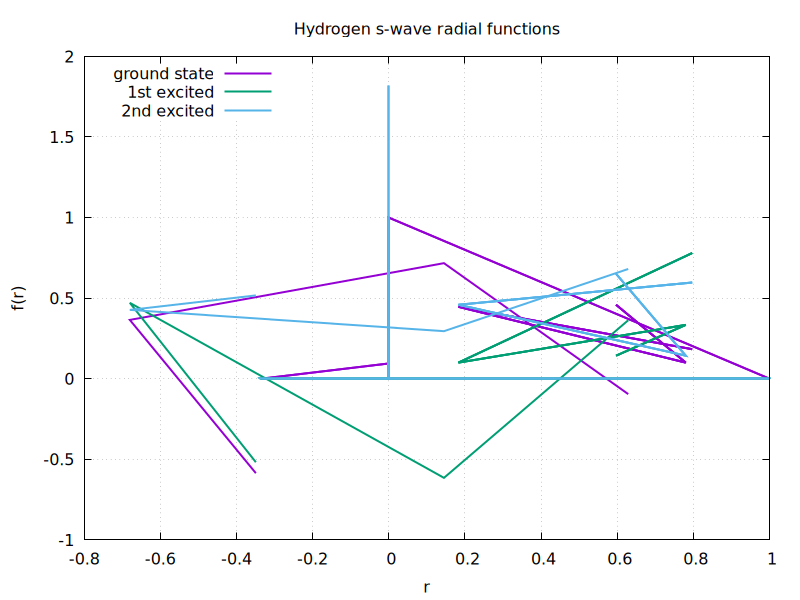
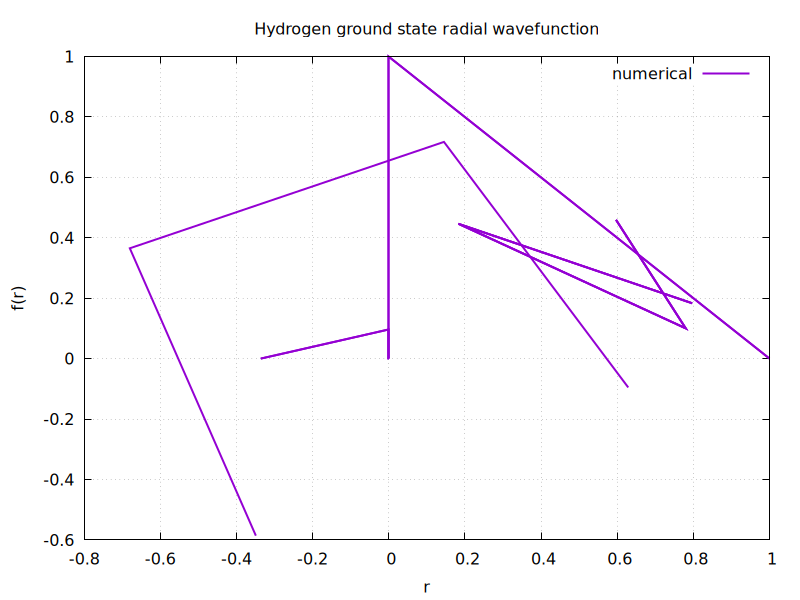
homework

diff --git a/homework/eigenvalues/main.cc b/homework/eigenvalues/main.cc
@@ -40,21 +40,23 @@ int main(int argc, char** argv){
     // diagonalize hydrogen Hamiltonian
     auto [e,Vhyd] = pp::jacobi(H);
 
+    // find index for lowest eigenvalue (ground state)
+    int k0 = 0;
+    for(int k=1;k<e.size();k++)
+        if(e[k] < e[k0]) k0 = k;
+
     std::cout<<"Lowest hydrogen eigenvalues:\n";
     for(int i=0;i<5;i++)
         std::cout<<e[i]<<"\n";
 
     // -------- write wavefunctions to file --------
     std::ofstream wave("wave.dat");
-    wave << "# r f0 f1 f2\n";
+    wave << "# r f0\n";
 
     for(int i=0;i<npoints;i++){
         wave << r[i] << " "
-             << Vhyd(i,0)/sqrt(dr) << " "
-             << Vhyd(i,1)/sqrt(dr) << " "
-             << Vhyd(i,2)/sqrt(dr) << "\n";
-    }
-
+            << Vhyd(i,k0)/sqrt(dr) << "\n";
+}
     wave.close();
 
     // --------------------------------------------------
